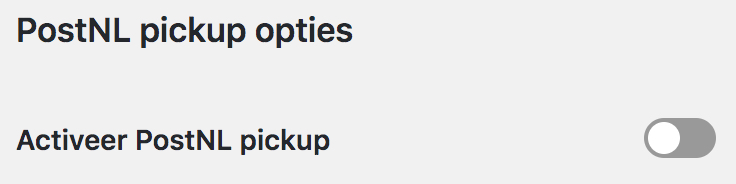
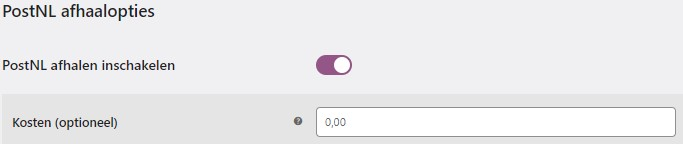
update-manual-new-options

diff --git a/language/nl_NL.html b/language/nl_NL.html
@@ -214,7 +214,7 @@
 				<img src="media/WOO_LABELOMSCHRIJVING.jpg">
 				<h3>Leeg pakket gewicht</h3>
 				<p>
-					Geef hier aan wat het gewicht van een leeg pakket is, aangeduid in grammen.
+					Geef hier aan wat het gewicht van een leeg pakket is. Het ligt aan de instellingen van WooCommerce of dit in grammen of kilo's is.
 				</p>
 				<img src="media/WOO_LEEGPAKKET.jpg">
 				<h3>Standaard HS code</h3>
@@ -243,16 +243,15 @@
 					Zet de functie aan om de standaard velden <b>Adresveld 1</b> en <b>Adresveld 2</b> van WooCommerce op te splitsen in drie aparte velden voor <b>Straat</b>,<b>Huisnummer</b> en <b>Toevoeging</b>.
 				</p>
 				<img width='70%' class='center' src="media/WOO_MYPARCEL_ADRESVELDEN.jpg">
-				<h3>Toon afleverdag</h3>
-				<p>
-					Zet deze functie aan om jouw klanten in hun orderbevestiging te voorzien van de verwachte afleverdag. Het tonen van de afleverdagen in de checkout kan je aanzetten onder het tabje <span class=nice>PostNL</span>.
-				</p>
-				<img width='70%' class='center' src="media/WOO_TOON_AFLEVERDAG.jpg">
 				<h3>MyParcel bezorgopties inschakelen</h3>
 				<p>
-					Toon bezorgopties in jouw checkout door deze functie te activeren. De bezorgopties die je daadwerkelijk wilt tonen, kan je onder het tabje <span class=nice>PostNL</span> selecteren. Wanneer je deze functie aanzet, zullen de onderstaande instellingen zichtbaar worden.
+					Toon bezorgopties in jouw checkout door deze functie te activeren. De bezorgopties die je daadwerkelijk wilt tonen, kan je onder het tabje <span class=nice>PostNL</span> selecteren.
 				</p>
-				<img width='70%' class='center' src="media/WOO_BEZORGOPTIES.jpg">
+				<h3>Bezorgopties inschakelen voor backorders</h3>
+				<p>
+					Met deze optie kun je bepalen of de bezorgopties getoond worden bij backorders.
+				</p>
+				<img width='70%' class='center' src="media/WOO_BEZORGOPTIES_INSCH_BACKORD.jpg">
 				<h3>Toon bij</h3>
 				<p>
 					Hier kies je of de bezorgopties altijd worden getoond, ondanks dat er producten worden besteld die alleen in een brievenbuspakje passen.
@@ -263,31 +262,42 @@
 					Wanneer je deze bezorgopties liever alleen toont bij bestellingen die in een pakket zullen worden verstuurd, kies je voor <b>Bij verzendmethoden
 					gekoppeld aan Pakket</b>. Kies bij <span class=nice>Standaard exportinstellingen</span> > <span class=nice>Pakkettype</span> > <span class=nice>Pakket</span> voor de gewenste verzendmethoden.
 				</p>
-				<img src="media/WOO_TOONBIJ.jpg">
+				<img width='70%' class='center' src="media/WOO_TOONBIJ.jpg">
 				<h3>Bezorgopties positie</h3>
 				<p>
 					Zou je de checkout op een andere plek willen hebben dan is dat mogelijk via de bezorgopties positie.
 					Je kan de MyParcel checkout na factuurgegevens, verzendgegevens of notities neerzetten.
 					Door al deze opties uit te proberen en te bekijken in je checkout, kom je erachter wat voor jouw webshop het mooiste is.
 				</p>
-				<img src="media/WOO_BEZORGOPTIE_POSITIE.jpg">
+				<img width='70%' class='center' src="media/WOO_BEZORGOPTIE_POSITIE.jpg">
+				<h3>Prijzen tonen als</h3>
+				<p>
+					Deze optie geeft je de mogelijkheid om de bezorgoptie prijzen als totaal of meerprijs te tonen.
+				</p>
+				<img width='70%' class='center' src="media/WOO_PRIJZEN_TONEN_ALS.jpg">
+				<h3>Pickup locaties standaard weergave</h3>
+				<p>
+					Met deze optie kan je kiezen wat je eerst wilt tonen bij de pickup locatie optie. Je hebt de keuze tussen een kaart en lijst.
+				</p>
+				<img width='70%' class='center' src="media/WOO_PICKUP_LOCATIES_STANDAARD_WEERGAVE.jpg">
 				<h3>Aangepaste stijlen (CSS)</h3>
 				<p>
 					De checkout neemt automatisch de stijl van jouw webshop over. Ben je bekend met het schrijven van code en wil je de stijl van de checkout aanpassen? Verander dit dan hier door de CSS te wijzigen.
 				</p>
-				<img src="media/WOO_AANGEPASTE_STIJLEN.jpg">
+				<img width='70%' class='center' src="media/WOO_AANGEPASTE_STIJLEN.jpg">
 				<h3>Titels</h3>
 				<p>
 					Pas hier de titels in de MyParcel checkout naar wens aan, zodat deze perfect op jouw webshop aansluit.
 				</p>
 				<img width='70%' class='center' src="media/WOO_TITELS.jpg">
 				<h2 id="2_4">2.4 PostNL</h2>
+				<img width='70%' class='center' src="media/WOO_BEZORGOPTIES.jpg">
 				<h3>PostNL exportinstellingen</h3>
 				<p>
 					Geef hier aan welke verzendopties je standaard aan pakketzendingen wilt toevoegen wanneer je deze vanuit WooCommerce exporteert. Bij de verzendtoptie 'Verzekerde zending' kan je instellen vanaf welk verkoopbedrag de zending een verzekering moet krijgen.
 				</p>
 				<img width='70%' class='center' src="media/WOO_STANDAARD_EXPORT_POSTNL.jpg">
-				<h3>Activeer PostNL levering</h3>
+				<h3>PostNL bezorging inschakelen</h3>
 				<p>
 					Wil je in jouw checkout klanten de mogelijkheid bieden om voor thuislevering (ochtend, standaard of avond) te kiezen? Zet deze functie dan aan. <b>Let op:</b> wanneer je deze optie uit laat staan en 'PostNL pickup' aan, zullen al jouw zendingen standaard naar een postpunt worden verzonden als de MyParcel checkout voor jouw klanten zichtbaar is.
 				</p>
@@ -316,12 +326,11 @@
 					Bij geen verwerkingstijd vul je hier een ‘0’ (nul) in.
 				</p>
 				<img src="media/WOO_VERWERKINGTIJD.jpg">
-				<h3>Leverdagen venster</h3>
+				<h3>Toon bezorgdatum</h3>
 				<p>
 					Met deze optie kun je aangeven tot hoever in de toekomst jouw klanten een leverdag kunnen kiezen.
-					In dit geval staat het op 0 dagen, maar dit kan natuurlijk ook 2 of 5 dagen zijn.
-					Het maximum is 14 dagen. Wanneer het leverdagenvenster op '0' (nul) wordt gezet, zullen de dagen niet meer worden getoond,
-					waardoor de consument geen dag meer kan kiezen.
+					In dit geval staat het op 14 dagen, maar dit kan natuurlijk ook 2 of 5 dagen zijn.
+					Het minimum is 1 dag en het maximum is 14 dagen.
 				</p>
 				<img src="media/WOO_LEVERDAGENVENSTER.jpg">
 				<h3>Bezorgopties</h3>
@@ -333,9 +342,9 @@
 					In onderstaand voorbeeld zie je hoe deze toeslagen in de checkout terugkomen.
 				</p>
 				<img width='70%' class='center' src="media/WOO_BEZORGOPTIES.jpg">
-				<h3>Activeer PostNL pickup</h3>
+				<h3>PostNL afhalen inschakelen</h3>
 				<p>
-					Zet deze functie aan om 'Afhalen bij PostNL' in jouw checkout aan te bieden. Wil je enkel de optie 'Ophalen bij PostNL' aanbieden? Vink deze optie dan aan zonder 'PostNL levering' te activeren. <b>Let op:</b> We raden aan om in dit geval de checkout enkel te laten zien bij 'Verzendmethoden gekoppeld aan pakket' zodat jouw klant deze optie enkel ziet als hij/zij een specifieke verzendmethode aanklikt. Doe je dit niet dan zullen al jouw zendingen naar een postpunt worden gestuurd.
+					Zet deze functie aan om 'Afhalen bij PostNL' in jouw checkout aan te bieden. Wil je enkel de optie 'Ophalen bij PostNL' aanbieden? Vink deze optie dan aan zonder 'PostNL levering' in te schakelen. <b>Let op:</b> We raden aan om in dit geval de checkout enkel te laten zien bij 'Verzendmethoden gekoppeld aan pakket' zodat jouw klant deze optie enkel ziet als hij/zij een specifieke verzendmethode aanklikt. Doe je dit niet dan zullen al jouw zendingen naar een postpunt worden gestuurd.
 				</p>
 				<img width='70%' class='center' src="media/WOO_ACTIVEER_POSTNL_PICKUP.jpg">
 				<h2 id="2_5">2.5 Veelgestelde vragen over de configuratie</h2>
@@ -346,6 +355,10 @@
 				<p>
 				<h3>Al mijn zendingen worden standaard als 'Ophalen bij PostNL' opgeslagen!</h3>
 				<i>Je kunt dit oplossen door de optie <b>PostNL levering activeren</b> onder het tabje <span class="nice">PostNL</span> aan te zetten of door de checkout enkel zichtbaar te maken bij verzendmethoden die bij <span class="nice">Standaard exportinstellingen</span> aan het pakkettype 'Pakket' zijn gekoppeld. Let er wel op dat de optie 'Toon bij' onder het tabje <span class="nice">Checkout instellingen</span> staat ingesteld op 'Bij verzendmethoden gekoppeld aan pakket'.</i>
+				</p>
+				<h3>Al mijn bestellingen worden een pakket</h3>
+				<p>
+					Op het moment dat je brievenbuspakjes automatisch aan wilt maken, zal je dit bij de standaard exportinstellingen aan moeten geven. Let op dat als je vast tarief gebruikt dit niet onder pakket kan staan. Staat één verzendmethode bijvoorbeeld onder 'pakket' en 'brievenbuspakje', dan zal er een pakket aangemaakt worden. Dit komt omdat pakket voorrang heeft. Zorg dan in dit geval dat je jouw verzendmethode alleen onder 'brievenbuspakje' zet.
 				</p>
 				<h1 id="3">3. Gebruik plugin</h1>
 				<p>
